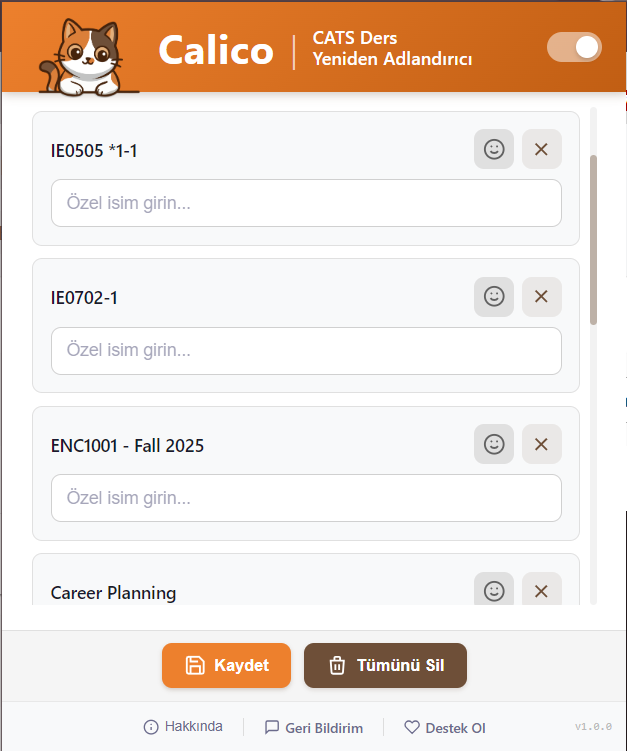
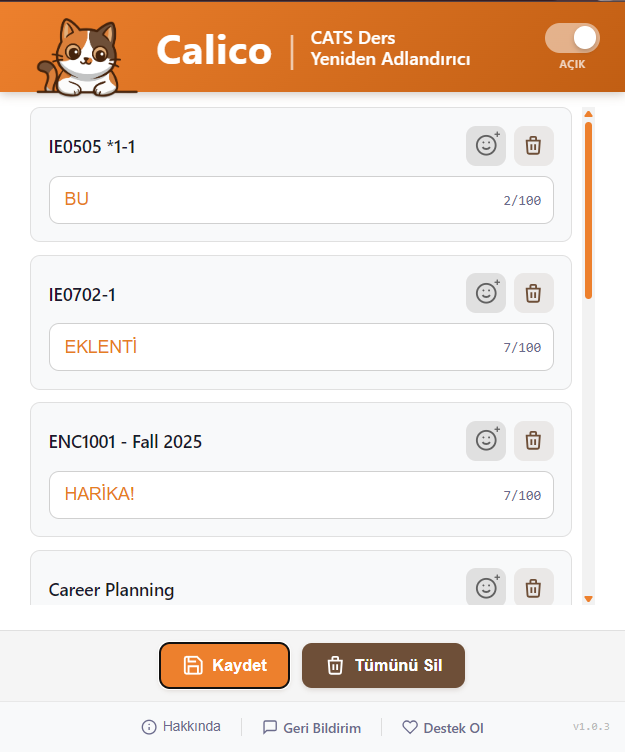
Bump version to 1.0.3
## Version 1.0.3 | Orphan Mapping Temizleme

Bu sürümde;
  - Ders unfavorite edildiğinde courseMap'ten otomatik temizlenir
  - otherSitesMenu'de orijinal isim geri döner

diff --git a/content.js b/content.js
@@ -1,6 +1,11 @@
 /**
  * Calico - Content Script
  * CATS portalında ders isimlerini yeniden adlandırır.
+ * 
+ * Bağımlılıklar: config.js, storage.js (ErrorHandler dahil)
+ * Not: manifest'te önce yüklenmeli
+ * 
+ * v1.0.1: Retry mekanizması eklendi (ders bulunamazsa 10 kez dener)
  */
 
 /**
@@ -136,6 +141,43 @@ var RETRY_CONFIG = {
 };
 
 /**
+ * Tespit edilen derslerde olmayan courseMap eşleştirmelerini temizler.
+ * Kullanıcı bir dersi unfavorite yaptığında, o dersin özel adı otomatik silinir.
+ * @param {string[]} detectedCourses - Tespit edilen ders listesi
+ */
+function cleanOrphanMappings(detectedCourses) {
+  // Hiç ders tespit edilmediyse temizleme yapma (sayfa henüz yüklenmemiş olabilir)
+  if (!detectedCourses || detectedCourses.length === 0) {
+    return;
+  }
+  
+  if (!Storage.isContextValid()) {
+    return;
+  }
+  
+  Storage.get([CONFIG.STORAGE_KEYS.COURSE_MAP], function(data) {
+    var courseMap = data[CONFIG.STORAGE_KEYS.COURSE_MAP] || {};
+    var keysToDelete = [];
+    
+    for (var originalName in courseMap) {
+      if (courseMap.hasOwnProperty(originalName)) {
+        if (detectedCourses.indexOf(originalName) === -1) {
+          keysToDelete.push(originalName);
+        }
+      }
+    }
+    
+    if (keysToDelete.length > 0) {
+      keysToDelete.forEach(function(key) {
+        delete courseMap[key];
+      });
+      
+      Storage.set({ [CONFIG.STORAGE_KEYS.COURSE_MAP]: courseMap });
+    }
+  });
+}
+
+/**
  * Sayfadaki dersleri tespit eder (iç fonksiyon).
  * @returns {string[]} Tespit edilen dersler
  */
@@ -179,6 +221,9 @@ function doDetectCourses() {
   if (coursesString !== lastDetectedCourses) {
     lastDetectedCourses = coursesString;
     Storage.set({ [CONFIG.STORAGE_KEYS.DETECTED_COURSES]: uniqueCourses });
+    
+    // Orphan eşleştirmeleri temizle
+    cleanOrphanMappings(uniqueCourses);
   }
   
   return uniqueCourses;

diff --git a/options.html b/options.html
@@ -88,7 +88,7 @@
         <span>Destek Ol</span>
       </a>
     </div>
-    <span class="footer-version">v1.0.2</span>
+    <span class="footer-version">v1.0.3</span>
   </div>
 
   <!-- Status Message -->
@@ -154,7 +154,7 @@
         </a>
 
         <div class="about-footer">
-          <span>Sürüm 1.0.2</span>
+          <span>Sürüm 1.0.3</span>
         </div>
       </div>
     </div>

diff --git a/README.md b/README.md
@@ -7,7 +7,7 @@ A Browser extension that improves UX for Istanbul Kultur University's student po
 [![Firefox Add-on](https://img.shields.io/badge/Firefox-140+-FF7139?logo=firefox&logoColor=white)](https://addons.mozilla.org/)
 [![Manifest V3](https://img.shields.io/badge/Manifest-V3-34A853?logo=googlechrome&logoColor=white)](https://developer.chrome.com/docs/extensions/mv3/intro/)
 [![License: MIT](https://img.shields.io/badge/License-MIT-yellow.svg)](LICENSE)
-[![Version](https://img.shields.io/badge/Version-1.0.2-blue.svg)](CHANGELOG.md)
+[![Version](https://img.shields.io/badge/Version-1.0.3-blue.svg)](CHANGELOG.md)
 
 **İstanbul Kültür Üniversitesi CATS (Course Activity Tracking System) portalında ders isimlerini kişiselleştirmenizi sağlayan tarayıcı uzantısı. Chrome, Edge, Opera, Yandex, Brave, Firefox (Desktop & Android) destekler.**
 

diff --git a/PRIVACY.md b/PRIVACY.md
@@ -1,7 +1,7 @@
 # 🔒 Gizlilik Politikası | Privacy Policy
 
-> **Son Güncelleme | Last Updated:** 2025-12-17  
-> **Sürüm | Version:** 1.0.2
+> **Son Güncelleme | Last Updated:** 2026-01-02  
+> **Sürüm | Version:** 1.0.3
 
 ---
 
